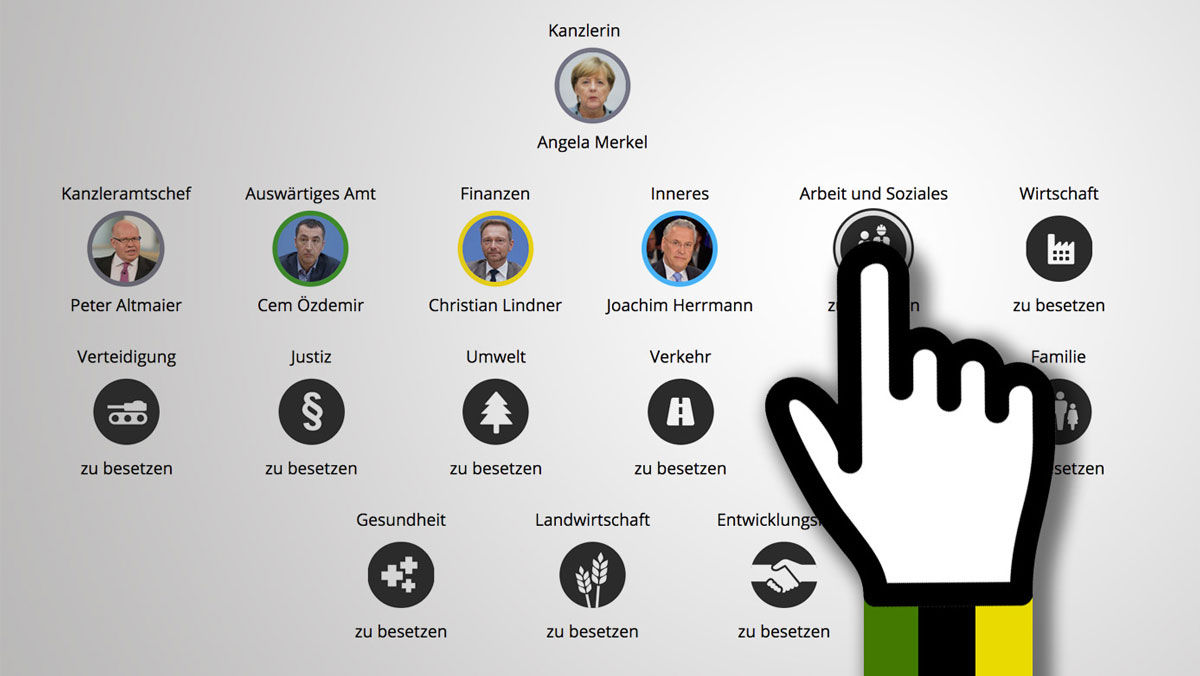
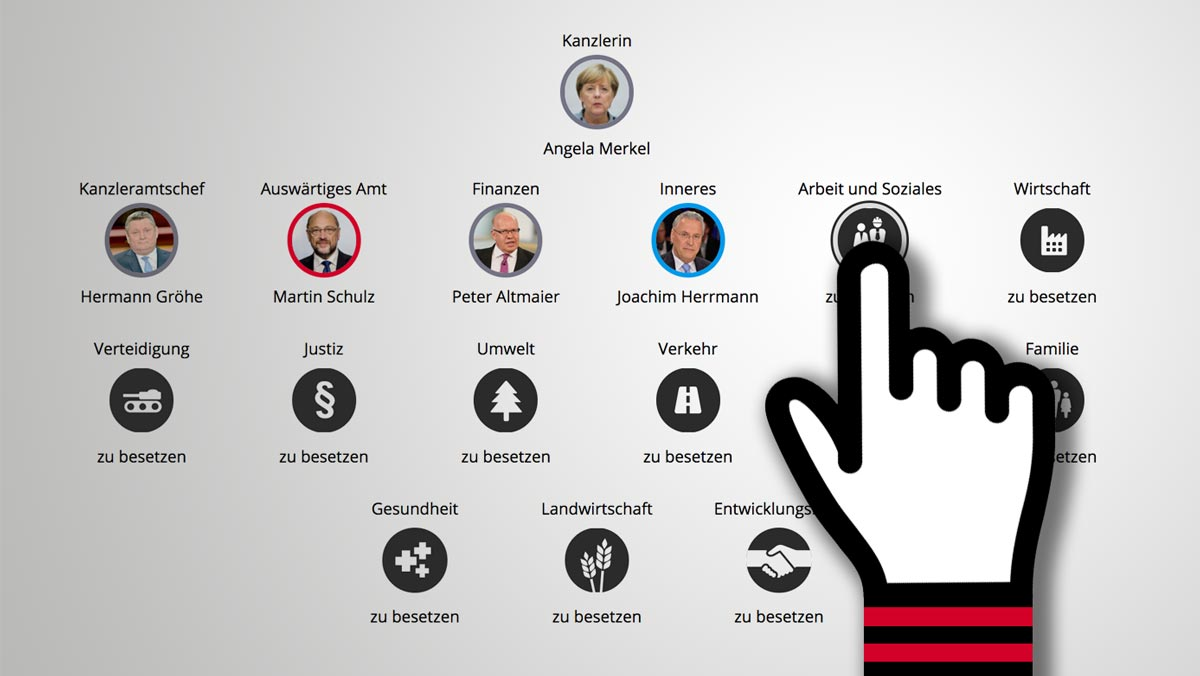
Update meta data and preview image

diff --git a/src/index.html b/src/index.html
@@ -12,14 +12,14 @@
     <link rel="icon" type="image/png" sizes="32x32" href="images/favicon-32x32.png">
     <link rel="icon" type="image/png" sizes="16x16" href="images/favicon-16x16.png">
 
-    <title>Kabinett-O-Mat: Wer wird Minister?</title>
+    <title>Kabinett-O-Mat: Wer wird Minister? (GroKo-Edition)</title>
 
     <!-- Twitter -->
     <meta name="twitter:card" content="summary_large_image">
     <meta name="twitter:site" content="@br_data">
     <meta name="twitter:creator" content="@br_data">
-    <meta name="twitter:title" content="Kabinett-O-Mat">
-    <meta name="twitter:description" content="Wer wird Minister? Stellen Sie sich Ihr Wunsch-Kabinett zusammen">
+    <meta name="twitter:title" content="Kabinett-O-Mat (GroKo-Edition)">
+    <meta name="twitter:description" content="Wer wird Minister? Stellen Sie sich Ihr Wunsch-Kabinett zusammen!">
     <meta name="twitter:url" content="http://web.br.de/interaktiv/kabinett-o-mat/">
     <meta name="twitter:image" content="http://web.br.de/interaktiv/kabinett-o-mat/images/preview.jpg">
 
@@ -27,22 +27,22 @@
     <meta property="og:type" content="article">
     <meta property="og:locale" content="de_DE">
     <meta property="og:site_name" content="BR">
-    <meta property="og:title" content="Kabinett-O-Mat">
+    <meta property="og:title" content="Kabinett-O-Mat (GroKo-Edition)">
     <meta property="og:description" content="Wer wird Minister? Stellen Sie sich Ihr Wunsch-Kabinett zusammen">
     <meta property="og:url" content="http://web.br.de/interaktiv/kabinett-o-mat/">
     <meta property="og:image" content="http://web.br.de/interaktiv/kabinett-o-mat/images/preview.jpg">
 
     <!-- Google+ / Schema.org  -->
     <meta itemprop="author" content="BR Data">
-    <meta itemprop="name" content="Kabinett-O-Mat">
+    <meta itemprop="name" content="Kabinett-O-Mat (GroKo-Edition)">
     <meta itemprop="description" content="Wer wird Minister? Stellen Sie sich Ihr Wunsch-Kabinett zusammen">
     <meta itemprop="image" content="http://web.br.de/interaktiv/kabinett-o-mat/images/preview.jpg">
 
     <!-- General SEO -->
     <meta name="author" content="BR Data">
-    <meta name="title" content="Kabinett-O-Mat">
+    <meta name="title" content="Kabinett-O-Mat (GroKo-Edition)">
     <meta name="description" content="Wer wird Minister? Stellen Sie sich Ihr Wunsch-Kabinett zusammen">
-    <meta name="keywords" content="Merkel, Jamaika, Wahl, Koalition, Jamaika-Koalition, Kabinett, Minister, Ministerposten, Ministerien, Union, CDU, CSU, FDP, Grüne, Bayerischer Rundfunk, BR Data">
+    <meta name="keywords" content="Merkel, Groko, Wahl, Koalition, Kabinett, Minister, Ministerposten, Ministerien, Union, CDU, CSU, FDP, Grüne, Bayerischer Rundfunk, BR Data">
 
     <link rel="icon" type="image/x-icon" href="favicon.ico">
     <link rel="shortcut icon" type="image/x-icon" href="favicon.ico">
@@ -297,7 +297,7 @@
               <span>Facebook</span>
             </a>
 
-            <a href="https://twitter.com/intent/tweet?url=%URL%&amp;text=Wer+wird+Minister?+Mein+Wunsch-Kabinett+im+Kabinett-O-Mat:&amp;hashtags=Jamaika,BTW17&amp;related=tagesschau,br24,br_data" class="share twitter" target="_blank">
+            <a href="https://twitter.com/intent/tweet?url=%URL%&amp;text=Wer+wird+Minister?+Mein+Wunsch-Kabinett+im+Kabinett-O-Mat:&amp;hashtags=GroKo&amp;related=tagesschau,br24,br_data" class="share twitter" target="_blank">
               <i class="icon-twitter-squared big"></i>
               <span>Twitter</span>
             </a>
